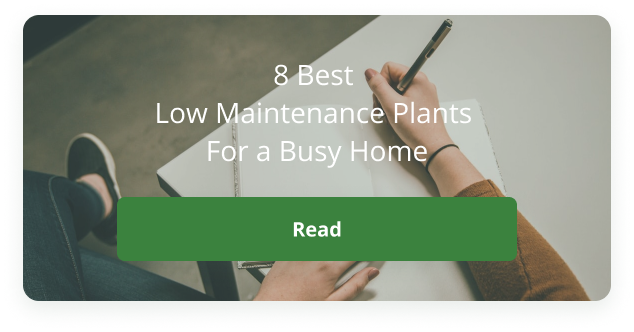
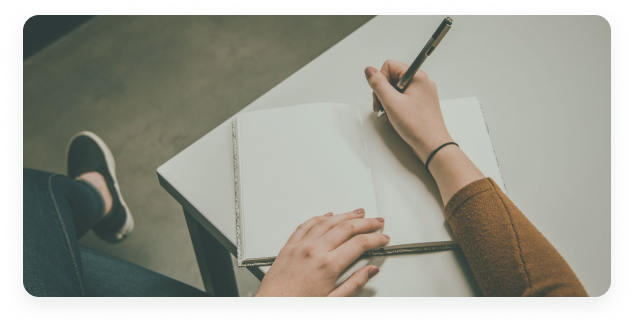
blog chưa hoàn thiện

diff --git a/html/Home_Page.html b/html/Home_Page.html
@@ -228,7 +228,7 @@
       </div>
       <div class="row m-lg-5 my-">
         <div class="col-lg-3 col-md-4 col-6">
-          <div class="card bg-light">
+          <div class="card bg-light mb-4">
             <div class="card-body">
               <img src="../img/Frame 65-0.png" alt="" class="card-img-top" />
               <span class="card-text plant_name font-weight-bold"
@@ -245,7 +245,7 @@
           </div>
         </div>
         <div class="col-lg-3 col-md-4 col-6">
-          <div class="card bg-light">
+          <div class="card bg-light mb-4">
             <div class="card-body">
               <img src="../img/Frame 65-1.png" alt="" class="card-img-top" />
               <span class="card-text plant_name font-weight-bold"
@@ -262,7 +262,7 @@
           </div>
         </div>
         <div class="col-lg-3 col-md-4 col-6">
-          <div class="card bg-light">
+          <div class="card bg-light mb-4">
             <div class="card-body">
               <img src="../img/Frame 65-2.png" alt="" class="card-img-top" />
               <span class="card-text plant_name font-weight-bold"
@@ -279,7 +279,7 @@
           </div>
         </div>
         <div class="col-lg-3 col-md-4 col-6">
-          <div class="card bg-light">
+          <div class="card bg-light mb-4">
             <div class="card-body">
               <img src="../img/Frame 65.png" alt="" class="card-img-top" />
               <span class="card-text plant_name font-weight-bold"
@@ -296,7 +296,7 @@
           </div>
         </div>
         <div class="col-lg-3 col-md-4 col-6">
-          <div class="card bg-light">
+          <div class="card bg-light mb-4">
             <div class="card-body">
               <img src="../img/Frame 65 (1).png" alt="" class="card-img-top" />
               <span class="card-text plant_name font-weight-bold"
@@ -313,7 +313,7 @@
           </div>
         </div>
         <div class="col-lg-3 col-md-4 col-6">
-          <div class="card bg-light">
+          <div class="card bg-light mb-4">
             <div class="card-body">
               <img src="../img/Frame 65 (2).png" alt="" class="card-img-top" />
               <span class="card-text plant_name font-weight-bold"
@@ -330,7 +330,7 @@
           </div>
         </div>
         <div class="col-lg-3 col-md-4 col-6">
-          <div class="card bg-light">
+          <div class="card bg-light mb-4">
             <div class="card-body">
               <img src="../img/Frame 65 (3).png" alt="" class="card-img-top" />
               <span class="card-text plant_name font-weight-bold"
@@ -347,7 +347,7 @@
           </div>
         </div>
         <div class="col-lg-3 col-md-4 col-6">
-          <div class="card bg-light">
+          <div class="card bg-light mb-4">
             <div class="card-body">
               <img src="../img/Frame 65 (4).png" alt="" class="card-img-top" />
               <span class="card-text plant_name font-weight-bold"
@@ -365,6 +365,28 @@
         </div>
       </div>
     </div>
-    
+    <!-- Blogs -->
+    <div class="container-fluid padding" id="blogs">
+      <div class="row text-center selling">
+        <div class="col-12">
+          <h3 class="font-weight-bold">Blogs</h3>
+        </div>
+        <hr />
+      </div>
+      <div class="row padding">
+        <div class="col-md-6 img_1">
+          <div class="col-12">
+            <span
+              >8 Best <br />Low Maintenance Plants <br />For a Busy Home</span
+            >
+          </div>
+          <a href="#" class="btn btn-success shop_now">Read</a>
+        </div>
+        <div class="col-md-6 img_2">
+          <span>8 Best <br />Low Maintenance Plants <br />For a Busy Home</span>
+          <a href="#" class="btn btn-success shop_now">Read</a>
+        </div>
+      </div>
+    </div>
   </body>
 </html>

diff --git a/css/home_page.css b/css/home_page.css
@@ -74,7 +74,7 @@ hr {
 }
 
 .row .card {
-  border-radius: 30px;
+  border-radius: 16px;
 }
 
 .plant_price {
@@ -86,3 +86,32 @@ hr {
 .plant_name {
   font-size: 20px;
 }
+
+.img_1 {
+  background: linear-gradient(
+      0deg,
+      rgba(80, 107, 82, 0.25),
+      rgba(80, 107, 82, 0.25)
+    ),
+    url(../img/Blog\ Card\ 1.png);
+  background-position: center;
+  background-size: cover;
+  width: 588px;
+  height: 286px;
+  border-radius: 16px;
+}
+
+.img_2 {
+  background: linear-gradient(
+      0deg,
+      rgba(80, 107, 82, 0.25),
+      rgba(80, 107, 82, 0.25)
+    ),
+    url(../img/Blog\ Card\ 2.png);
+  background-position: center;
+  background-size: cover;
+  width: 588px;
+  height: 286px;
+  border-radius: 16px;
+}
+
